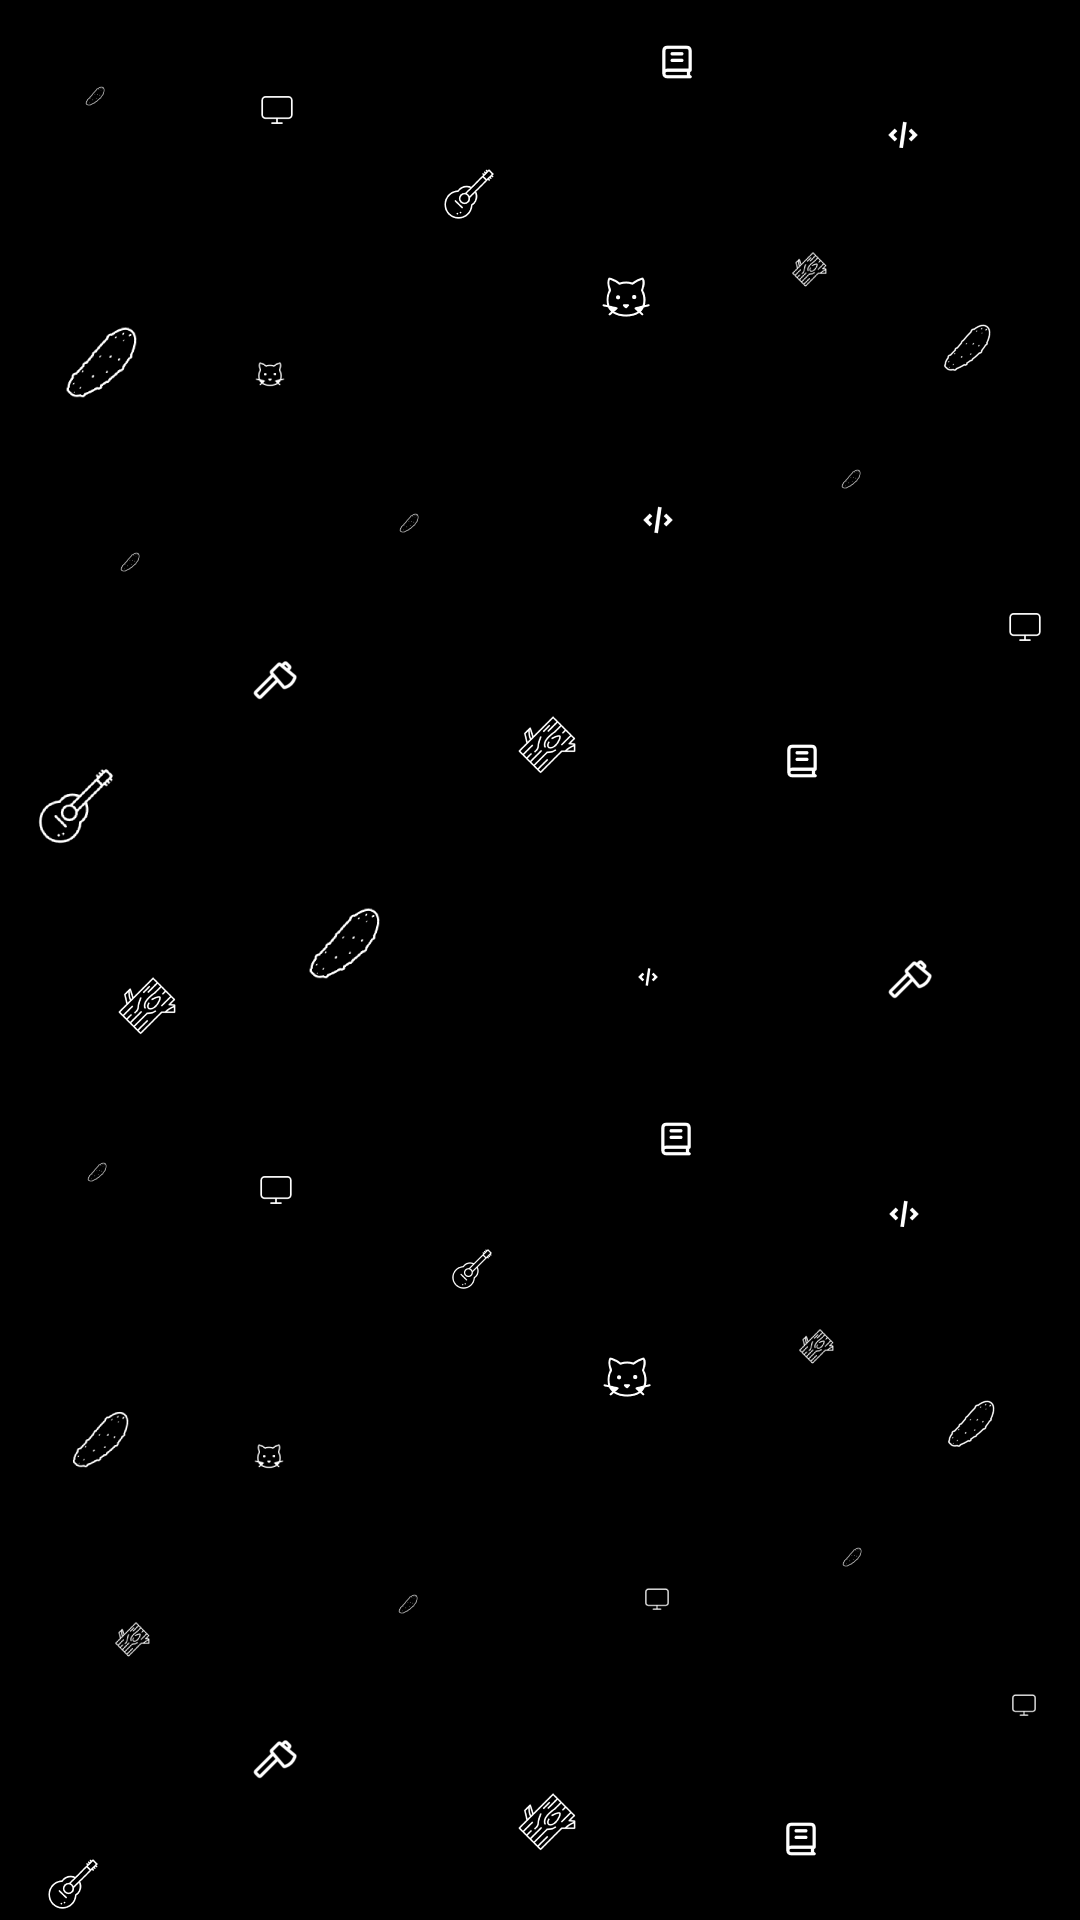
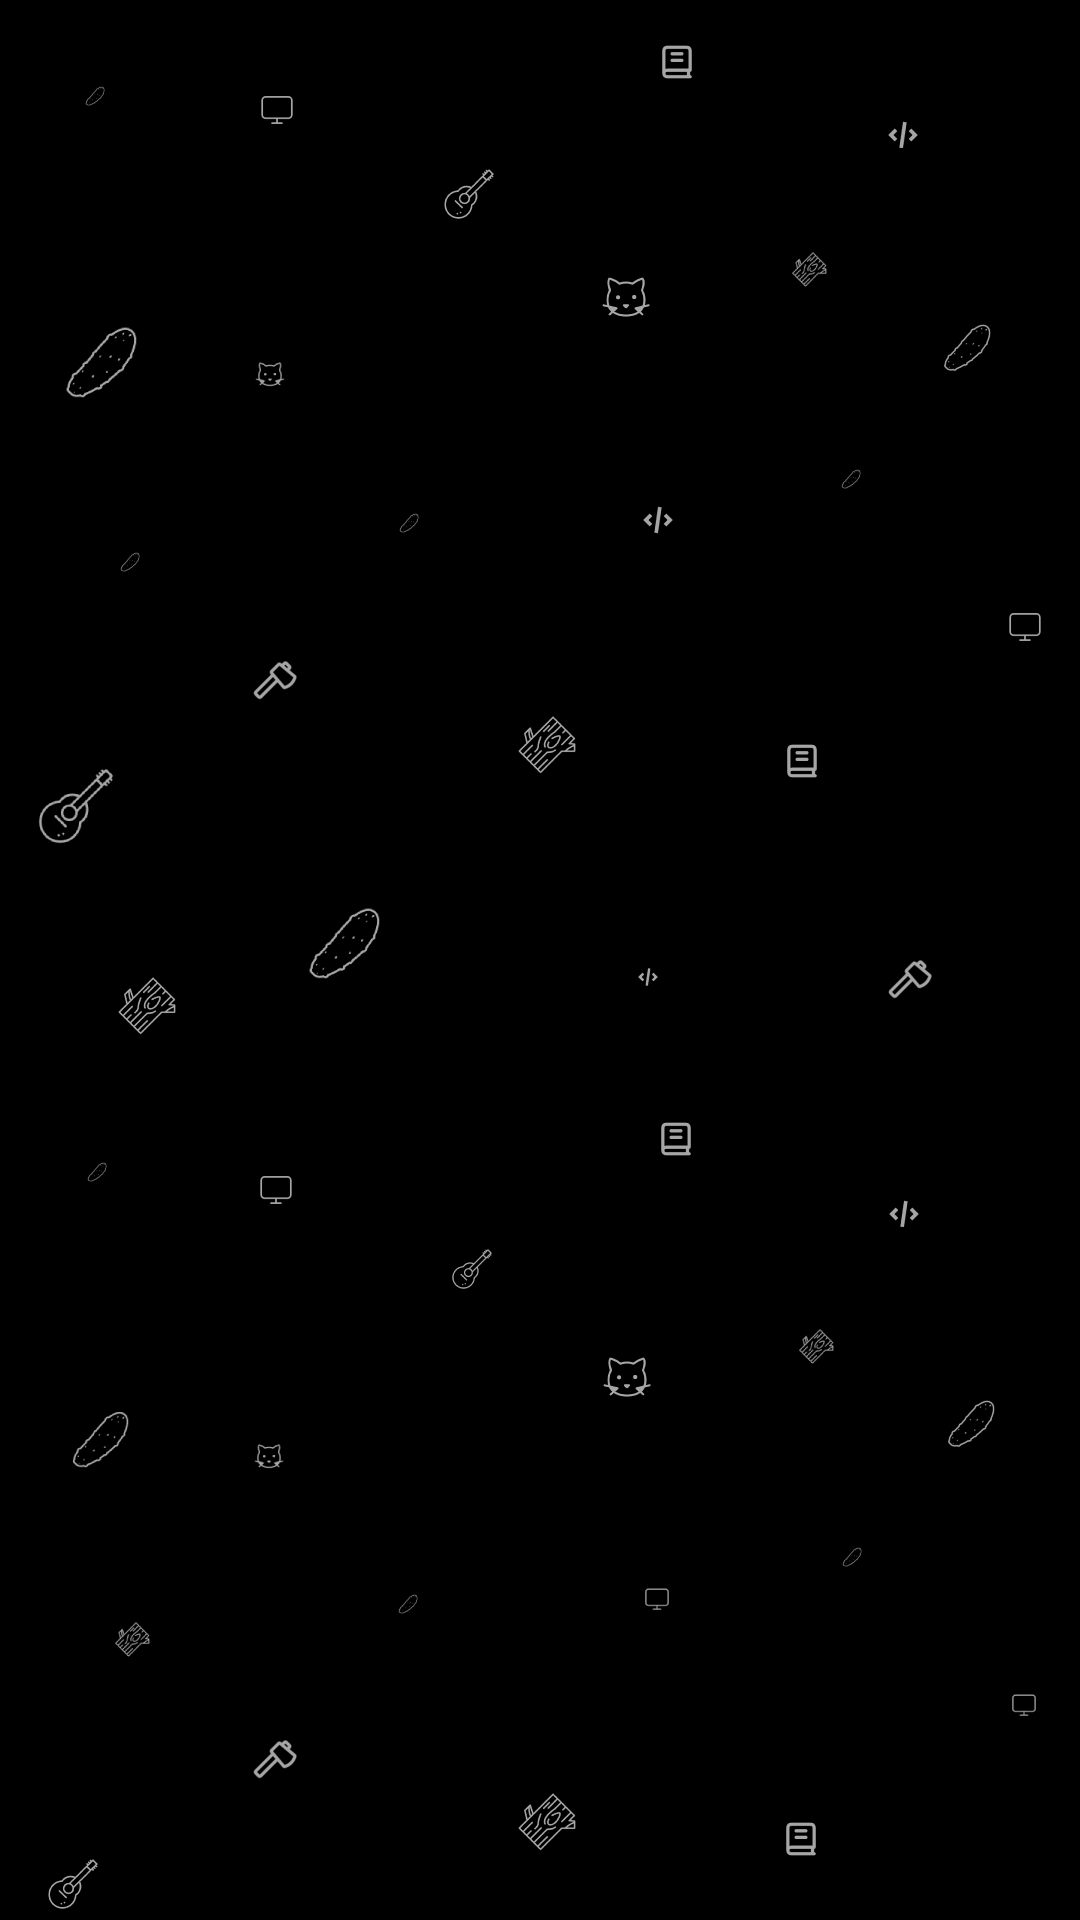
feat(frontend): add tecnology section

diff --git a/routes/index.html b/routes/index.html
@@ -8,29 +8,40 @@
     <meta name="theme-color" content="#09f" />
     <link rel="stylesheet" href="/utils/globalstyles.css" />
     <link rel="stylesheet" href="style.css" />
+    <link rel="preconnect" href="https://fonts.googleapis.com" />
+    <link rel="preconnect" href="https://fonts.gstatic.com" crossorigin />
+    <link
+      href="https://fonts.googleapis.com/css2?family=Sour+Gummy:ital,wght@0,100..900;1,100..900&display=swap"
+      rel="stylesheet"
+    />
+    <script>
+      window.onload = function () {
+        setTimeout(function () {
+          window.scrollTo(0, 0);
+        }, 15);
+      };
+    </script>
   </head>
   <body class="page-container">
-    <div class="content-wrap">
+    <div class="content-card">
       <div class="container header-container">
         <img
           alt="Dot Dager🥒"
           id="profile-icon"
           src="https://yt3.googleusercontent.com/KPVok_m-JqxKG5wD7HaXc5RyYDPPHHZpQP4KquV8fD9er0mGEkZ_9UuQojBehXz6aCxUt0RI=s160-c-k-c0x00ffffff-no-rj"
         />
-        <h1 class="font-semibold" style="font-size: 3rem">
-          Hi 👋! I'm Dot Dager
-        </h1>
-        <h2 class="font-semibold" style="font-size: 2rem">
-          A player of the instrument
+        <h1 class="title" style="font-size: 3rem">Hola👋! Soy Dot Dager</h1>
+        <h2 class="title" style="font-size: 2rem">
+          Un tocador del instrumento profesional 🎸
         </h2>
       </div>
       <main>
         <div class="about-me section-box container">
-          <span class="about-title">
+          <span class="about-title title">
             <img alt="about me" src="assets/Pepe_Studying.png" />
-            <h2 class="font-semibold">About Me</h2>
+            <h2 class="font-semibold">Sobre Mi</h2>
           </span>
-          <p style="letter-spacing: 0.8px; opacity: 0.9">
+          <p style="letter-spacing: 0.8px">
             Lorem ipsum dolor, sit amet consectetur adipisicing elit. Dolorem
             distinctio quia temporibus praesentium dolore repellat unde esse
             voluptas voluptatem odio, reprehenderit est et consequuntur?
@@ -46,6 +57,36 @@
             quaerat.
           </p>
         </div>
+        <section>
+          <h2 class="title center" style="margin-top: 30px; font-size: 2rem">
+            Tecnologías
+          </h2>
+          <article>
+            <h3 style="margin-bottom: 10px">Lenguajes</h3>
+            <ul style="display: flex; gap: 20px">
+              <li class="tec-item">
+                <img
+                  src="assets/icons/javascript.svg"
+                  alt="Javascript"
+                  width="50"
+                  height="50"
+                  loading="lazy"
+                />
+                <span>Javascript</span>
+              </li>
+              <li class="tec-item">
+                <img
+                  src="assets/icons/typescript.svg"
+                  alt="Typescript"
+                  width="50"
+                  height="50"
+                  loading="lazy"
+                />
+                <span>Typescript</span>
+              </li>
+            </ul>
+          </article>
+        </section>
       </main>
     </div>
     <footer></footer>

diff --git a/utils/globalstyles.css b/utils/globalstyles.css
@@ -7,21 +7,22 @@
   margin: 0;
   padding: 0;
   text-decoration: none;
-  color: #ddd;
+  color: rgb(195, 195, 195);
+  list-style: none;
 }
 
 .page-container {
   background-color: black;
   background-image: url(/routes/assets/bg-dark.png);
-  overflow: hidden;
   background-repeat: repeat;
   background-size: 25%;
-  animation: moverFondo 60s infinite linear;
+  animation: moverFondo 100s infinite linear;
   min-height: 100vh;
   margin: 15px 15px 0px 15px;
   display: flex;
   flex-direction: column;
   gap: 20px;
+  box-sizing: border-box;
 }
 
 @keyframes moverFondo {
@@ -39,17 +40,35 @@
   max-width: 1000px;
 }
 
-.content-wrap {
-  margin: 80px auto;
+.content-card {
+  margin: 30px auto;
   flex: 1;
   background-color: rgba(100, 100, 100, 0.3);
   box-shadow: 0px 0px 40px 3px rgba(72, 87, 106, 0.5);
   padding: 20px;
   border-radius: 20px;
+  animation: fadeInUp 0.7s ease-out;
+}
+
+@keyframes fadeInUp {
+  0% {
+    opacity: 0;
+    transform: translateY(20%);
+  }
+  100% {
+    opacity: 1;
+    transform: translateY(0);
+  }
 }
 
 .font-semibold {
   font-weight: 600;
+}
+
+.title {
+  font-family: "Sour Gummy", sans-serif;
+  font-weight: 600;
+  color: #ddd;
 }
 
 .header-container {
@@ -59,6 +78,13 @@
   align-items: center;
   margin: 30px auto 50px auto;
   padding-bottom: 10px;
+}
+
+.center {
+  display: flex;
+  flex-direction: column;
+  align-items: center;
+  margin: auto;
 }
 
 @media (max-width: 600px) {

diff --git a/routes/style.css b/routes/style.css
@@ -15,3 +15,18 @@
   align-items: center;
   gap: 15px;
 }
+
+.tec-item {
+  display: flex;
+  justify-content: center;
+  align-items: center;
+  flex-direction: column;
+  padding: 20px;
+  gap: 10px;
+  border: 1px solid #303030;
+  border-radius: 10px;
+}
+
+.tec-item:hover {
+  background-color: #5850ec33;
+}
